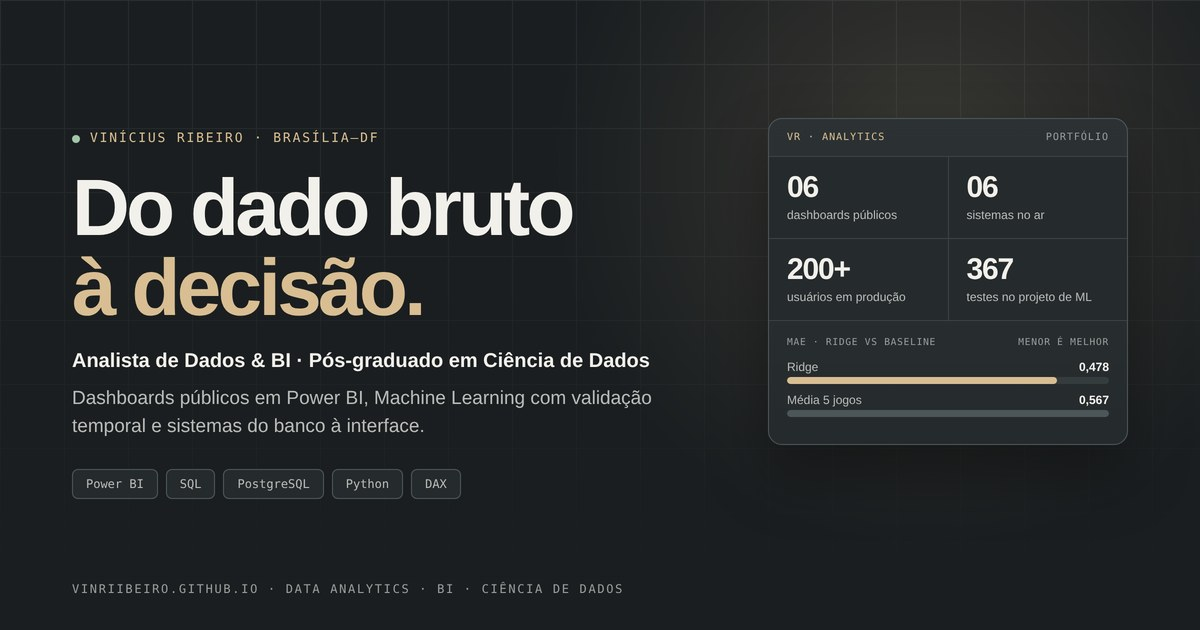
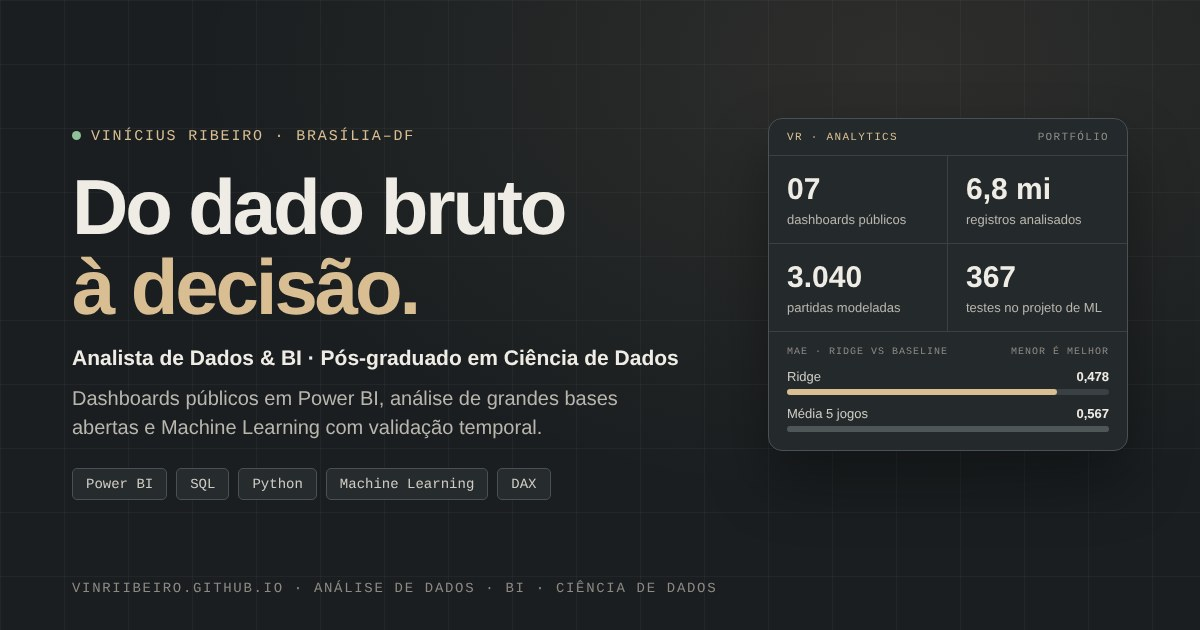
Portfólio focado em Análise e Ciência de Dados; sistemas em lista compacta
Claude-Session: https://claude.ai/code/session_01B4bXDAXSJpisYTuUkaqweq

diff --git a/index.html b/index.html
@@ -4,7 +4,7 @@
     <meta charset="utf-8">
     <meta name="viewport" content="width=device-width, initial-scale=1">
     <meta name="theme-color" content="#1A1E20">
-    <meta name="description" content="Portfólio de Vinícius Ribeiro: Data Analytics, dashboards em Power BI, SQL, PostgreSQL, Python, Ciência de Dados e sistemas aplicados a operações reais.">
+    <meta name="description" content="Portfólio de Vinícius Ribeiro: Análise de Dados, Ciência de Dados, dashboards em Power BI, SQL, PostgreSQL e Python com dados públicos e reais.">
     <meta name="author" content="Vinícius Ribeiro">
     <meta name="robots" content="index, follow">
     <title>Vinícius Ribeiro | Data Analytics, Power BI &amp; Data Science</title>
@@ -12,7 +12,7 @@
     <meta property="og:type" content="website">
     <meta property="og:locale" content="pt_BR">
     <meta property="og:title" content="Vinícius Ribeiro | Do dado bruto à decisão">
-    <meta property="og:description" content="Dashboards públicos em Power BI, Ciência de Dados com validação temporal e sistemas construídos do banco à interface.">
+    <meta property="og:description" content="Dashboards públicos em Power BI, Ciência de Dados com validação temporal e dados tratados da coleta à decisão.">
     <meta property="og:url" content="https://vinriibeiro.github.io/">
     <meta property="og:image" content="https://vinriibeiro.github.io/assets/og.jpg">
     <meta property="og:image:width" content="1200">
@@ -41,8 +41,6 @@
         <nav class="nav" id="menu-principal" aria-label="Navegação principal">
           <a href="#dashboards">Dashboards</a>
           <a href="#ciencia-de-dados">Ciência de Dados</a>
-          <a href="#sistemas">Sistemas</a>
-          <a href="#prototipos">Protótipos</a>
           <a href="#metodo">Método</a>
           <a href="#sobre">Sobre</a>
           <a href="#contato">Contato</a>
@@ -57,22 +55,22 @@
           <p class="eyebrow"><span class="status-dot"></span> OLÁ, SOU VINÍCIUS RIBEIRO</p>
           <h1 id="titulo-principal">Do dado bruto <span class="text-accent">à decisão.</span></h1>
           <p class="hero-role">Analista de Dados &amp; Business Intelligence · Pós-graduado em Ciência de Dados</p>
-          <p class="hero-lead">Conecto experiência de operação com análise de dados e Ciência de Dados. Trabalho da origem em SQL e PostgreSQL à entrega de dashboards em Power BI, modelos de Machine Learning em Python e sistemas que fazem parte do dia a dia do negócio.</p>
+          <p class="hero-lead">Transformo dados brutos em respostas confiáveis. Coleto e trato dados com SQL, PostgreSQL e Python, modelo e valido com estatística e Machine Learning, e entrego a leitura em dashboards Power BI que documentam fonte e limitações.</p>
           <div class="hero-actions">
             <a class="button button-primary" href="#dashboards">Ver meus dashboards <span aria-hidden="true">↗</span></a>
             <a class="button button-secondary" href="#ciencia-de-dados">Projeto de Ciência de Dados <span aria-hidden="true">→</span></a>
           </div>
           <p class="hero-availability"><span class="status-dot"></span> Brasília, DF <span aria-hidden="true">·</span> Analista de Dados na Central IT, em serviço para o MDS</p>
           <ul class="tech-chips" aria-label="Tecnologias principais">
-            <li>Power BI</li><li>DAX</li><li>Power Query</li><li>SQL</li><li>PostgreSQL</li><li>Python</li><li>DuckDB</li><li>Git/GitHub</li>
+            <li>Power BI</li><li>DAX</li><li>Power Query</li><li>SQL</li><li>PostgreSQL</li><li>Python</li><li>Machine Learning</li><li>DuckDB</li>
           </ul>
         </div>
         <aside class="hero-panel" aria-label="Resumo do portfólio">
           <div class="hero-panel-top"><span>VR · ANALYTICS</span><span><i class="status-dot"></i> ATUALIZADO 2026</span></div>
           <div class="hero-kpis">
             <div><strong>07</strong><span>dashboards públicos</span></div>
-            <div><strong>06</strong><span>sistemas no ar</span></div>
-            <div><strong>200+</strong><span>usuários em produção</span></div>
+            <div><strong>6,8 mi</strong><span>registros analisados (Consumidor.gov)</span></div>
+            <div><strong>3.040</strong><span>partidas modeladas com ML</span></div>
             <div><strong>367</strong><span>testes no projeto de ML</span></div>
           </div>
           <div class="hero-chart" aria-hidden="true">
@@ -138,21 +136,17 @@
         </div>
       </section>
 
-      <div class="proof-band" aria-label="Projetos e experiência em números"><div class="container proof-grid"><div><strong>07</strong><span>dashboards públicos</span></div><div><strong>06</strong><span>sistemas próprios publicados</span></div><div><strong>04</strong><span>bancos PostgreSQL modelados</span></div><div><strong>200+</strong><span>colaboradores cadastrados em sistema de produção</span></div></div></div>
+      <div class="proof-band" aria-label="Projetos e experiência em números"><div class="container proof-grid"><div><strong>07</strong><span>dashboards públicos</span></div><div><strong>6,8 mi</strong><span>reclamações tratadas e auditadas</span></div><div><strong>~410 mil</strong><span>marcações automáticas removidas na limpeza</span></div><div><strong>04</strong><span>bancos PostgreSQL modelados</span></div></div></div>
 
-      <section class="section" id="sistemas" aria-labelledby="systems-title">
-        <div class="container"><div class="section-heading"><div><p class="section-index">03 / SOFTWARE & DATA PRODUCTS</p><h2 id="systems-title">Do banco à <span class="text-accent">interface.</span></h2></div><p>Produtos usados em operações, demonstrações públicas e projetos próprios. O detalhe técnico de cada um está a um clique.</p></div><div class="project-grid" id="system-grid"></div><div class="models-strip"><div><p class="mono">SITE EXPRESS · GALERIA PÚBLICA</p><h3>10 modelos de sites para negócios locais</h3><p>Barbearia, pet, confeitaria e estética automotiva. Empresas fictícias e imagens ilustrativas.</p></div><a class="button button-secondary" href="https://vinriibeiro.github.io/modelos/" target="_blank" rel="noopener noreferrer">Explorar modelos ↗</a></div></div>
-      </section>
+      <section class="section method-section" id="metodo" aria-labelledby="method-title"><div class="container method-layout"><div><p class="section-index">03 / MÉTODO ANALÍTICO</p><h2 id="method-title">Como eu <span class="text-accent">analiso.</span></h2><p>Começo pela pergunta de negócio e só chego ao gráfico depois de entender a fonte, tratar a base e validar os números. Cada painel deixa claro o que o dado responde e o que ele não responde.</p></div><div class="method-panel"><div class="method-flow" aria-label="Etapas da análise"><span>Pergunta</span><i>→</i><span>Fonte</span><i>→</i><span>Coleta</span><i>→</i><span>Limpeza</span><i>→</i><span>Modelagem</span><i>→</i><span>Validação</span><i>→</i><span>Visualização</span><i>→</i><span>Limitações</span></div><ul class="method-rules"><li>Controles de qualidade documentados antes da análise (ex.: DQ01–DQ07 no Defensor do Consumidor).</li><li>Comparações justas: taxas por população, recortes comparáveis e média bayesiana contra amostras pequenas.</li><li>Modelos avaliados com validação temporal contra uma referência simples.</li><li>Fonte e limitações visíveis em cada entrega; nenhum resultado inventado.</li></ul></div></div></section>
 
-      <section class="section prototypes-section" id="prototipos" aria-labelledby="prototypes-title"><div class="container"><div class="section-heading"><div><p class="section-index">04 / PROTÓTIPOS & OPERAÇÕES</p><h2 id="prototypes-title">Antes da produção, <span class="text-accent">o fluxo precisa funcionar.</span></h2></div><p>Propostas navegáveis para validar a operação, as regras de negócio e a experiência de cada perfil.</p></div><div class="prototype-grid" id="prototype-grid"></div></div></section>
-
-      <section class="section method-section" id="metodo" aria-labelledby="method-title"><div class="container method-layout"><div><p class="section-index">05 / MÉTODO DE TRABALHO</p><h2 id="method-title">Como eu <span class="text-accent">trabalho.</span></h2><p>Requisitos, arquitetura, desenvolvimento, revisão e testes com responsabilidades definidas. Uso agentes de IA como apoio técnico e mantenho a aprovação humana nas decisões de entrega.</p></div><div class="method-panel"><div class="method-flow" aria-label="Etapas do trabalho"><span>Ideia</span><i>→</i><span>PRD</span><i>→</i><span>Arquitetura</span><i>→</i><span>Desenvolvimento</span><i>→</i><span>Revisão</span><i>→</i><span>QA</span><i>→</i><span>Validação</span><i>→</i><span>Aprovação</span></div><ul class="method-rules"><li>PRD, tarefas e critérios de aceitação documentados por projeto.</li><li>Branches por tarefa, commits pequenos e até três ciclos de correção.</li><li>Testes e auditoria com evidências; nenhum resultado inventado.</li><li>Merge e deploy somente após minha aprovação.</li></ul><p class="method-roles"><span class="mono">PAPÉIS</span> ChatGPT: produto · Claude Code: desenvolvimento · Codex: revisão · Gemini/Antigravity: QA · Eu: decisões e aprovação.</p></div></div></section>
-
-      <section class="section about-section" id="sobre" aria-labelledby="about-title"><div class="container"><div class="about-layout"><div><p class="section-index">06 / SOBRE</p><h2 id="about-title">Entendo a operação <span class="text-accent">antes de modelar o dado.</span></h2><p>Trabalhei quase cinco anos em um provedor de internet, boa parte desse período na supervisão comercial. Indicadores, equipe, CRM e qualidade das vendas faziam parte das decisões do dia a dia.</p><p>Hoje atuo como Analista de Dados na Central IT, em serviço para o MDS. Trabalho com tratamento e modelagem em PostgreSQL e painéis Power BI para diferentes níveis de gestão. Também construo sistemas que organizam os próprios processos dos quais os indicadores nascem.</p></div><div class="competence-grid"><div class="competence-card"><span class="mono">ANALYTICS</span><h3>Modelagem e leitura</h3><p>SQL, PostgreSQL, Power Query, DAX, Power BI, Python e modelagem dimensional. Painel operacional omnichannel com 13 tabelas fato, 120+ medidas e oito páginas.</p></div><div class="competence-card"><span class="mono">ENGENHARIA & PRODUTO</span><h3>Do requisito à entrega</h3><p>Banco de dados, autenticação, perfis, auditoria, interfaces e testes automatizados. Protótipos com dados fictícios para validar processos antes da implantação.</p></div></div></div>
+      <section class="section about-section" id="sobre" aria-labelledby="about-title"><div class="container"><div class="about-layout"><div><p class="section-index">04 / SOBRE</p><h2 id="about-title">Entendo a operação <span class="text-accent">antes de modelar o dado.</span></h2><p>Trabalhei quase cinco anos em um provedor de internet, boa parte desse período na supervisão comercial. Indicadores, equipe, CRM e qualidade das vendas faziam parte das decisões do dia a dia.</p><p>Hoje atuo como Analista de Dados na Central IT, em serviço para o MDS. Trabalho com tratamento e modelagem em PostgreSQL e painéis Power BI para diferentes níveis de gestão.</p></div><div class="competence-grid"><div class="competence-card"><span class="mono">ANALYTICS</span><h3>Modelagem e leitura</h3><p>SQL, PostgreSQL, Power Query, DAX, Power BI, Python e modelagem dimensional. Painel operacional omnichannel com 13 tabelas fato, 120+ medidas e oito páginas.</p></div><div class="competence-card"><span class="mono">CIÊNCIA DE DADOS</span><h3>Modelar e validar</h3><p>Python, estatística e Machine Learning com validação temporal, intervalos de previsão e testes automatizados. Coleta de dados abertos via API, com auditoria da base antes da análise.</p></div></div></div>
           <div class="career-layout"><div><h3>Experiência</h3><div class="career-list"><article><time>SET/2026 — ATUAL</time><div><h4>Analista de Dados</h4><p>Central IT · Ministério do Desenvolvimento Social</p><span>PostgreSQL, tratamento e modelagem de dados, Power BI e visões por níveis de gestão.</span></div></article><article><time>MAI/2021 — JAN/2026</time><div><h4>Supervisor Comercial / Técnico de Telecom</h4><p>Link Net Informática</p><span>Coordenação de equipe, indicadores, qualificação de leads, CRM e operação de provedor.</span></div></article><article><time>2015 — 2020</time><div><h4>Administrativo e atendimento</h4><p>Escritórios de advocacia · transporte coletivo</p><span>Rotinas administrativas, organização de processos e atendimento ao público.</span></div></article></div></div><div><h3>Formação e evolução</h3><div class="education-list"><article><span class="mono">EM ANDAMENTO · PREVISÃO DEZ/2026</span><h4>Pós-graduação em Ciência de Dados</h4><p>Unicesumar</p></article><article><span class="mono">CONCLUÍDO · 2025</span><h4>Gestão de Segurança Privada</h4><p>Unicesumar</p></article><article><span class="mono">CERTIFICAÇÕES</span><h4>Power BI para BI e Data Science · Python para Análise de Dados · SQL</h4><p>Data Science Academy (2026) · FGV Online (2026) · Power BI do básico ao avançado (2022) · Excel avançado (2021) · LGPD, Enap (2024)</p></article><article><span class="mono">PRÓXIMOS PASSOS</span><h4>Inglês diário e Microsoft PL-300</h4><p>Inglês em curso (Times Academy); PL-300 planejada.</p></article></div></div></div>
         </div></section>
 
-      <section class="section contact-section" id="contato" aria-labelledby="contact-title"><div class="container contact-layout"><div><p class="section-index">07 / CONTATO</p><h2 id="contact-title">Vamos conversar sobre <span class="text-accent">dados?</span></h2><p>Projetos de BI, análise de dados, Ciência de Dados ou sistemas que precisam sair do papel e funcionar na operação.</p></div><div class="contact-actions"><a class="button button-primary" href="mailto:vinriibeiro@gmail.com">Enviar e-mail ↗</a><a class="button button-secondary" href="https://www.linkedin.com/in/vinriibeiro/" target="_blank" rel="noopener noreferrer">LinkedIn ↗</a><a class="text-link" href="https://github.com/vinriibeiro" target="_blank" rel="noopener noreferrer">GitHub ↗</a><a class="text-link" href="https://wa.me/5561999731141" target="_blank" rel="noopener noreferrer">WhatsApp ↗</a></div></div></section>
+      <section class="section other-section" id="outros-projetos" aria-labelledby="other-title"><div class="container"><div class="other-head"><p class="section-index">05 / TAMBÉM CONSTRUO</p><h2 id="other-title">Sistemas e produtos <span class="text-accent">fora do BI.</span></h2><p>Projetos de desenvolvimento em que modelo o banco de dados e os indicadores da operação.</p></div><ul class="other-list" id="system-grid"></ul></div></section>
+
+      <section class="section contact-section" id="contato" aria-labelledby="contact-title"><div class="container contact-layout"><div><p class="section-index">06 / CONTATO</p><h2 id="contact-title">Vamos conversar sobre <span class="text-accent">dados?</span></h2><p>Projetos de BI, análise de dados e Ciência de Dados: da pergunta de negócio à decisão.</p></div><div class="contact-actions"><a class="button button-primary" href="mailto:vinriibeiro@gmail.com">Enviar e-mail ↗</a><a class="button button-secondary" href="https://www.linkedin.com/in/vinriibeiro/" target="_blank" rel="noopener noreferrer">LinkedIn ↗</a><a class="text-link" href="https://github.com/vinriibeiro" target="_blank" rel="noopener noreferrer">GitHub ↗</a><a class="text-link" href="https://wa.me/5561999731141" target="_blank" rel="noopener noreferrer">WhatsApp ↗</a></div></div></section>
     </main>
 
     <footer class="site-footer"><div class="container footer-inner"><span>© <span id="footer-year">2026</span> Vinícius Ribeiro</span><span>Do dado bruto à decisão.</span><a href="#topo">Voltar ao topo ↑</a></div></footer>

diff --git a/assets/app.js b/assets/app.js
@@ -277,22 +277,14 @@ mobileQuery.addEventListener("change", () => selectDashboard(currentDashboard));
 renderDashboardTabs();
 selectDashboard(0);
 
-function renderProjectCards(data, targetId, isPrototype = false) {
+function renderOtherProjects(data, targetId) {
   const root = document.getElementById(targetId);
   root.innerHTML = data.map(project => {
     const link = project.links[0];
-    const thumb = isPrototype ? "" : (project.thumb ? `<div class="project-thumb"><img src="${escapeHTML(project.thumb)}" alt="Tela do ${escapeHTML(project.title)}" width="640" height="280" loading="lazy"></div>` : `<div class="project-thumb sym" aria-hidden="true"><i>▶</i>DEMO</div>`);
-    return `<article class="${isPrototype ? "prototype-card" : "project-card"}">
-      ${thumb}<div class="project-card-top"><span class="project-type">${escapeHTML(project.type)}</span>${isPrototype ? "" : `<span class="project-status ${escapeHTML(project.statusClass)}">${escapeHTML(project.status)}</span>`}</div>
-      <h3>${escapeHTML(project.title)}</h3>
-      <p class="project-description">${escapeHTML(project.description)}</p>
-      ${isPrototype ? "" : `<p class="project-stack">${escapeHTML(project.stack.slice(0,4).join(" · "))}</p>`}
-      <div class="project-footer"><a href="${escapeHTML(link.url)}" ${externalAttrs}>${escapeHTML(link.label)} ↗</a><button type="button" data-project-id="${escapeHTML(project.id)}" data-project-group="${isPrototype ? "prototypes" : "systems"}" aria-label="Detalhes do projeto ${escapeHTML(project.title)}">Detalhes →</button></div>
-    </article>`;
+    return `<li class="other-item"><span class="other-title">${escapeHTML(project.title)}</span><span class="other-type">${escapeHTML(project.type)}</span><span class="other-actions"><a href="${escapeHTML(link.url)}" ${externalAttrs}>${escapeHTML(link.label)} ↗</a><button type="button" data-project-id="${escapeHTML(project.id)}" data-project-group="systems" aria-label="Detalhes do projeto ${escapeHTML(project.title)}">Detalhes</button></span></li>`;
   }).join("");
 }
-renderProjectCards(systems, "system-grid");
-renderProjectCards(prototypes, "prototype-grid", true);
+renderOtherProjects(systems, "system-grid");
 
 const dialog = document.getElementById("project-dialog");
 const dialogContent = document.getElementById("dialog-content");

diff --git a/assets/style.css b/assets/style.css
@@ -287,3 +287,20 @@ ul{margin-top:0}
 /* texturas de seção */
 .dashboards-section{background:linear-gradient(180deg,rgba(255,255,255,.015),transparent 30%)}
 .proof-band{background:radial-gradient(70% 100% at 50% 100%,rgba(217,190,147,.08),transparent 70%),var(--surface)}
+
+/* Outros projetos: lista compacta, propositalmente discreta */
+.other-section{padding:64px 0;border-top:1px solid var(--line)}
+.other-head{display:grid;grid-template-columns:minmax(0,1fr) minmax(0,1fr);gap:8px 40px;align-items:end;margin-bottom:22px}
+.other-head .section-index{grid-column:1/-1;margin:0}
+.other-head h2{font-size:24px;margin:0}
+.other-head p:not(.section-index){font-size:12px;color:var(--muted);margin:0}
+.other-list{list-style:none;margin:0;padding:0;border-top:1px solid var(--line)}
+.other-item{display:grid;grid-template-columns:200px minmax(0,1fr) auto;gap:16px;align-items:center;padding:12px 2px;border-bottom:1px solid var(--line);font-size:13px}
+.other-title{color:var(--text);font-weight:600}
+.other-type{color:var(--dim);font:400 11px "IBM Plex Mono",monospace}
+.other-actions{display:flex;gap:14px;align-items:center;font-size:12px}
+.other-actions a{color:var(--accent);text-decoration:none}
+.other-actions a:hover{text-decoration:underline}
+.other-actions button{background:none;border:0;color:var(--muted);font:inherit;cursor:pointer;padding:0}
+.other-actions button:hover{color:var(--text)}
+@media(max-width:760px){.other-head{grid-template-columns:1fr}.other-item{grid-template-columns:1fr auto;gap:4px 12px}.other-type{grid-column:1;grid-row:2}.other-actions{grid-column:2;grid-row:1/3}}

diff --git a/README.md b/README.md
@@ -25,18 +25,16 @@ portfolio-vinicius/
 
 ## Ordem das seções
 
-1. Cabeçalho e apresentação profissional com destaque para os projetos
-2. Dashboards & Data Projects (7 painéis interativos)
-3. Além do Placar — Ciência de Dados
-4. Faixa de evidências (7 dashboards, 6 sistemas, 4 bancos, 200+ colaboradores cadastrados)
-5. Software & Data Products (6 sistemas + vitrine com 10 modelos)
-6. Protótipos & Operações (demos da Seven)
-7. Método de trabalho
-8. Sobre e competências
-9. Experiência, formação e certificações
-10. Contato e rodapé
+Foco 100% em Análise de Dados e Ciência de Dados; desenvolvimento aparece pouco, no fim.
 
-O foco visual é a área de dashboards. Sistemas e protótipos vêm depois e os detalhes ficam em caixas modais.
+1. Cabeçalho e apresentação (indicadores de dados no painel do hero)
+2. Dashboards (7 painéis interativos)
+3. Além do Placar — Ciência de Dados
+4. Faixa de evidências (7 dashboards, 6,8 mi reclamações, ~410 mil marcações removidas, 4 bancos PostgreSQL)
+5. Método analítico (pergunta → fonte → coleta → limpeza → modelagem → validação → visualização → limitações)
+6. Sobre, competências (Analytics e Ciência de Dados), experiência e formação
+7. Também construo — lista compacta dos sistemas (sem miniaturas; detalhes em modal)
+8. Contato e rodapé
 
 ## Dashboard Showcase
 
